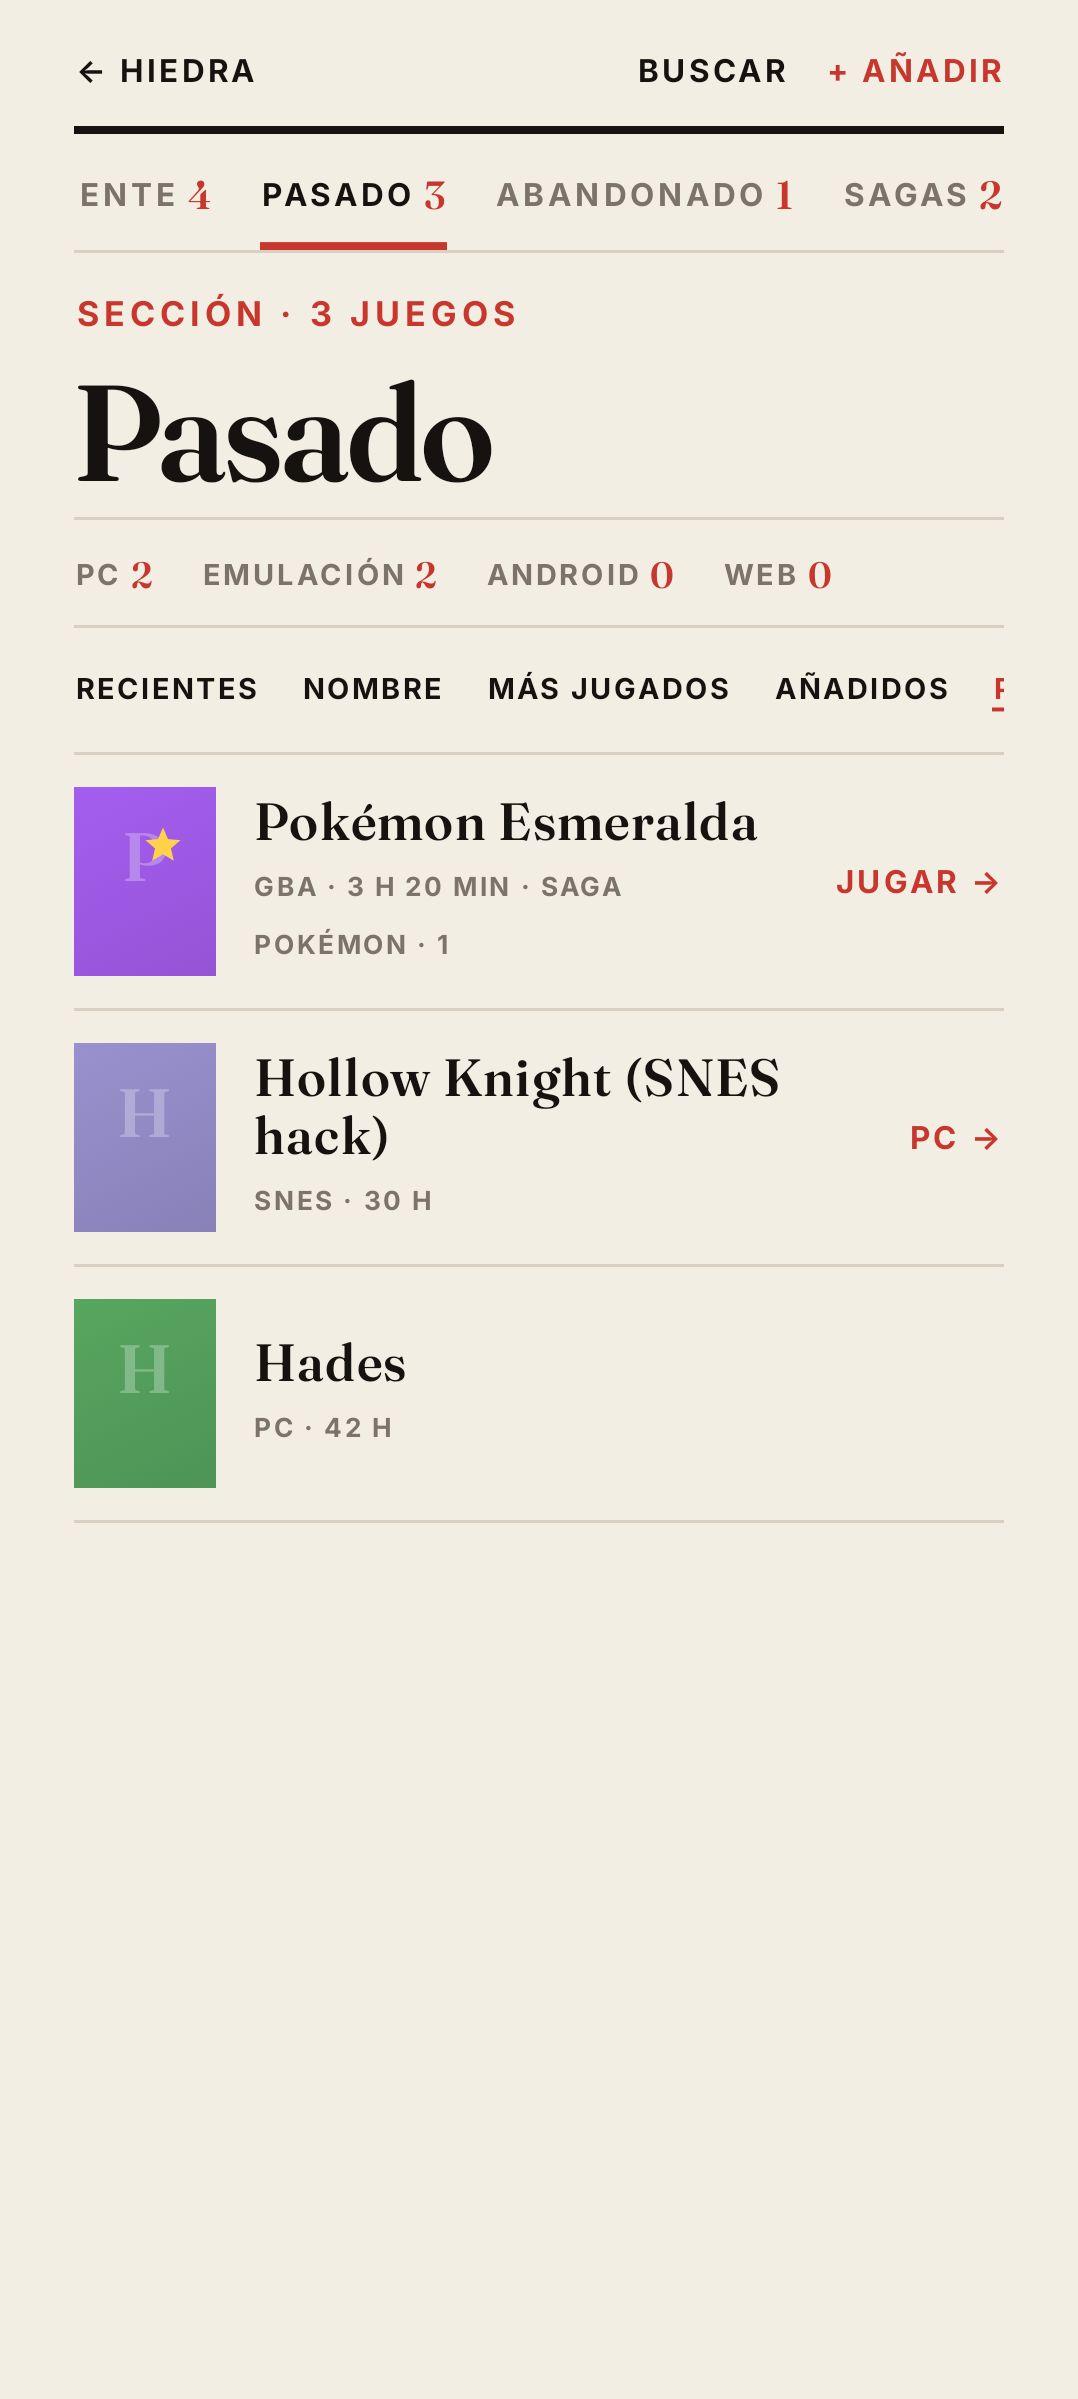
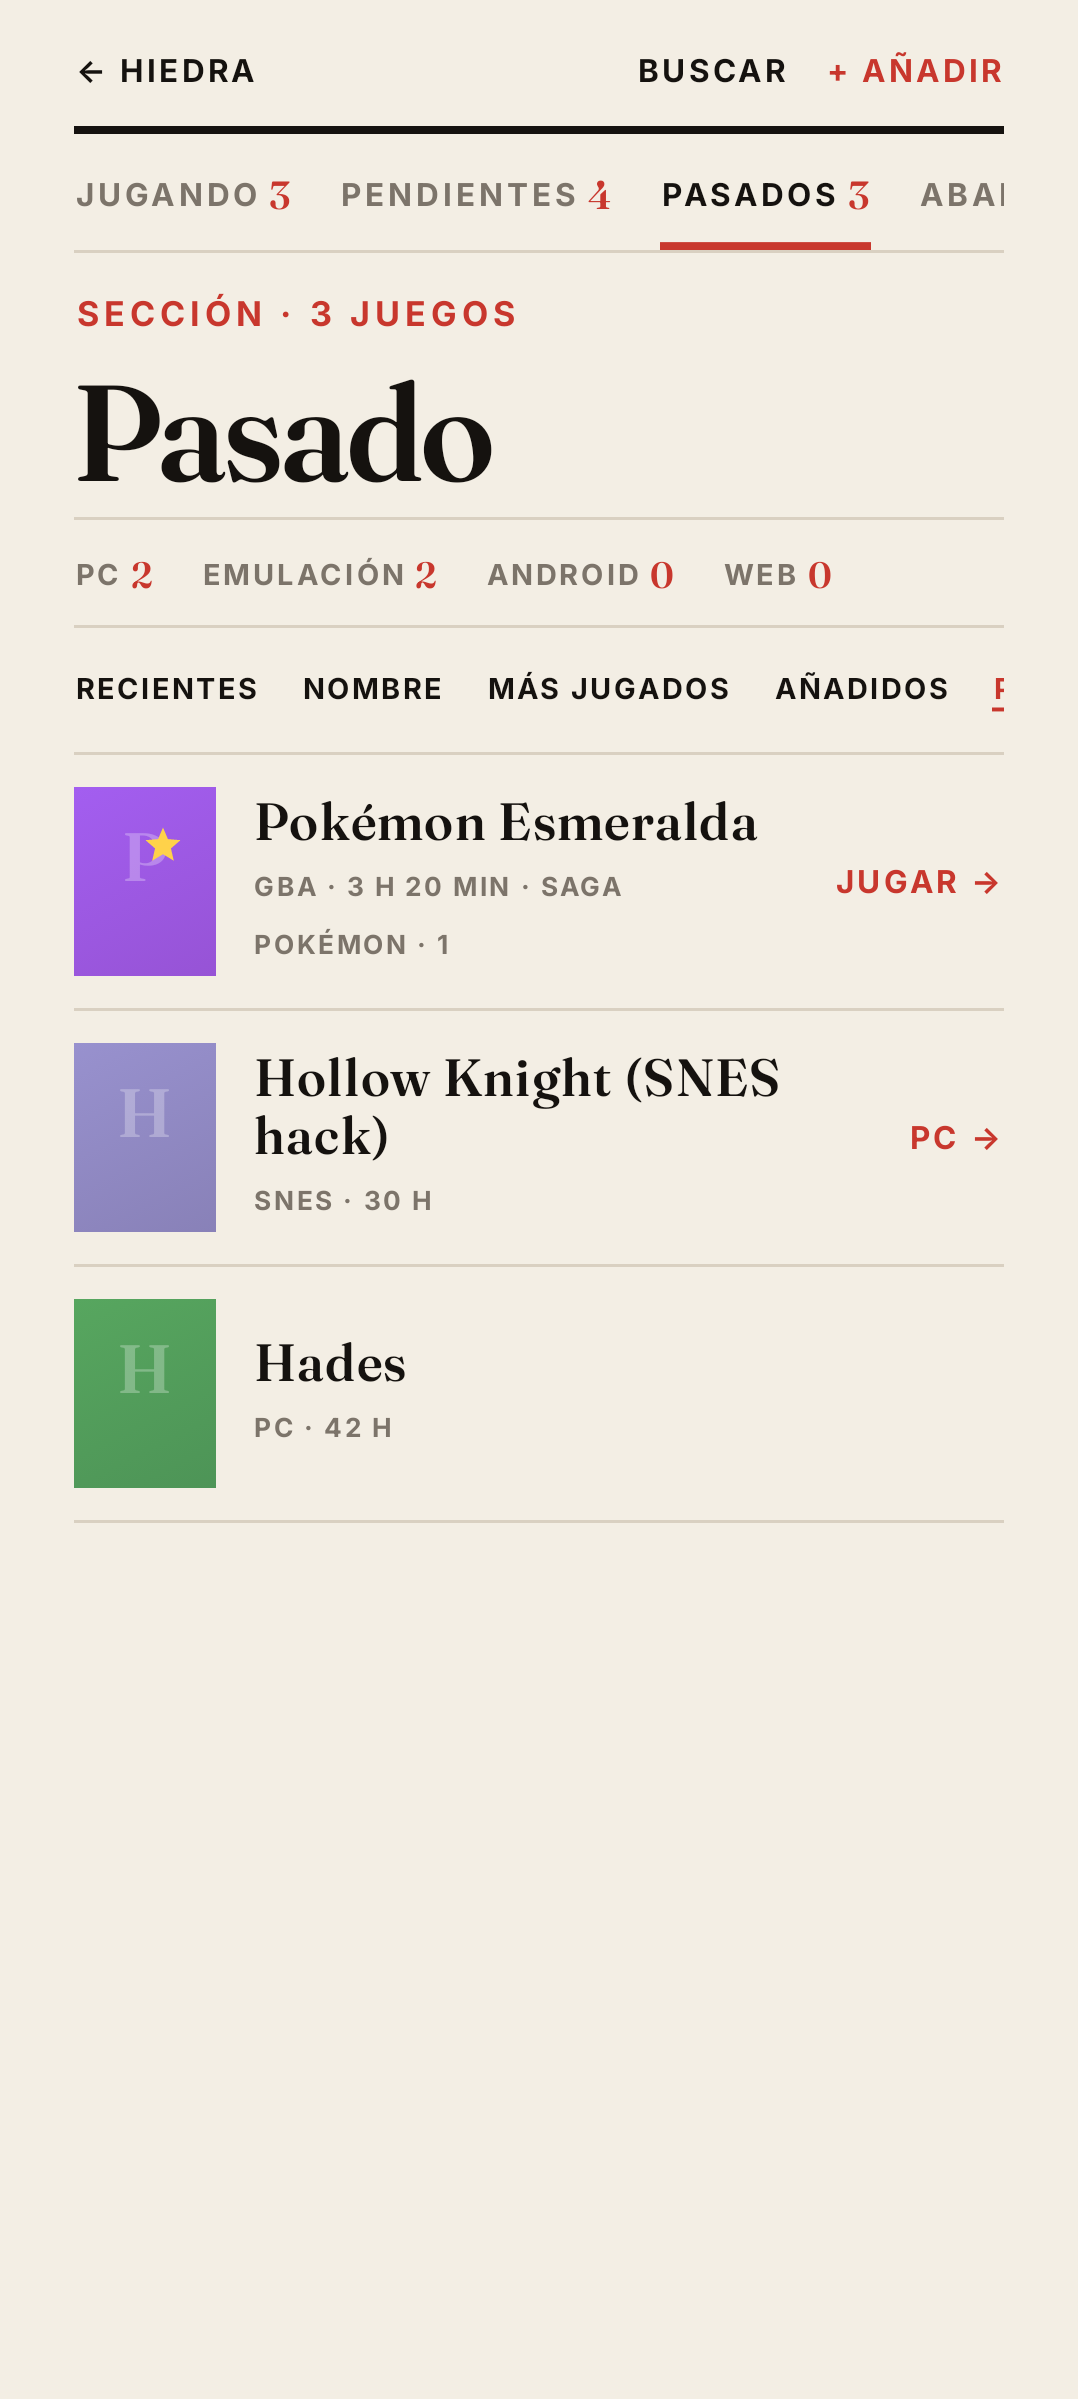
Hiedra 0.3.11: secciones en plural (Jugando · Pendientes · Pasados · Abandonados), pestañas que se centran solas y degradado en los bordes
Claude-Session: https://claude.ai/code/session_01Q4uywen3nuzUg5CTwJaCY5

Changed region(s): [[0.0612, 0.0617, 0.8571, 0.1234], [0.8878, 0.0617, 0.949, 0.0925]]

diff --git a/app/src/main/java/com/gonzalo/hiedra/Secciones.kt b/app/src/main/java/com/gonzalo/hiedra/Secciones.kt
@@ -32,6 +32,10 @@ import androidx.compose.ui.unit.Dp
 import androidx.compose.ui.unit.dp
 import androidx.compose.ui.unit.sp
 import kotlinx.coroutines.launch
+import kotlin.math.roundToInt
+import androidx.compose.ui.draw.drawWithContent
+import androidx.compose.ui.graphics.Brush
+import androidx.compose.ui.graphics.Color
 
 /*
  * Las secciones de Hiedra, como las de Marfil y las de Atrio: páginas por las que te mueves con el dedo o con las pestañas
@@ -282,7 +286,7 @@ fun PantSecciones(inicial: Destino, alVolver: () -> Unit, alAbrir: (Juego) -> Un
         }
         Filete(3.dp)
         if (buscando) CampoBusquedaRevista(busca, "título, sistema o saga", foco) { busca = it }
-        PestanasPaginas(listOf("Jugando", "Pendiente", "Pasado", "Abandonado", "Sagas"), pager.currentPage, cuentas) { i -> ambito.launch { pager.animateScrollToPage(i) } }
+        PestanasPaginas(listOf("Jugando", "Pendientes", "Pasados", "Abandonados", "Sagas"), pager.currentPage, cuentas) { i -> ambito.launch { pager.animateScrollToPage(i) } }
         if (busca.isNotBlank()) Resultados(busca, todos, alAbrir, alJugar)
         // (sin páginas vecinas precompuestas: con ellas, en las páginas que no son la primera los enlaces de la cabecera no recibían el toque)
         else HorizontalPager(pager, Modifier.weight(1f).fillMaxWidth(), key = { paginas[it].name }) { i ->
@@ -300,14 +304,26 @@ fun PantSecciones(inicial: Destino, alVolver: () -> Unit, alAbrir: (Juego) -> Un
 /** Las pestañas de las secciones (como las de Atrio): la elegida en tinta con el subrayado de acento; su número, en acento. Si no caben, se deslizan y la elegida siempre se ve. */
 @Composable
 private fun PestanasPaginas(nombres: List<String>, sel: Int, cuentas: List<Int>, onSel: (Int) -> Unit) {
+    // La fila se desplaza sola solo si la pestaña elegida no se ve entera (y entonces la centra): así no se corta la de al lado
     val scroll = rememberScrollState()
-    val xs = remember { mutableStateMapOf<Int, Int>() }
-    LaunchedEffect(sel, xs[sel]) { xs[sel]?.let { scroll.animateScrollTo((it - 12).coerceAtLeast(0)) } }
+    val sitios = remember { mutableStateMapOf<Int, Pair<Int, Int>>() }   // pestaña → (x, ancho), en coordenadas del contenido
+    var anchoFila by remember { mutableIntStateOf(0) }
+    LaunchedEffect(sel, sitios[sel], anchoFila) {
+        val (x, w) = sitios[sel] ?: return@LaunchedEffect
+        if (anchoFila <= 0) return@LaunchedEffect
+        if (x < scroll.value || x + w > scroll.value + anchoFila) scroll.animateScrollTo((x + w / 2 - anchoFila / 2).coerceIn(0, scroll.maxValue))
+    }
     Column(Modifier.fillMaxWidth()) {
-        Row(Modifier.fillMaxWidth().horizontalScroll(scroll), horizontalArrangement = Arrangement.spacedBy(18.dp), verticalAlignment = Alignment.Bottom) {
+        Row(Modifier.fillMaxWidth().onGloballyPositioned { anchoFila = it.size.width }.horizontalScroll(scroll).drawWithContent {
+                // Un degradado en los bordes cuando hay más pestañas por un lado o por otro (para que no parezcan cortadas)
+                drawContent()
+                val f = 28.dp.toPx()
+                if (scroll.value > 0) drawRect(Brush.horizontalGradient(listOf(Paper, Color.Transparent), 0f, f), Offset.Zero, Size(f, size.height))
+                if (scroll.value < scroll.maxValue) drawRect(Brush.horizontalGradient(listOf(Color.Transparent, Paper), size.width - f, size.width), Offset(size.width - f, 0f), Size(f, size.height))
+            }, horizontalArrangement = Arrangement.spacedBy(18.dp), verticalAlignment = Alignment.Bottom) {
             nombres.forEachIndexed { i, n ->
                 val on = i == sel
-                Row(Modifier.onGloballyPositioned { xs[i] = it.positionInParent().x.toInt() }.clickable { onSel(i) }
+                Row(Modifier.onGloballyPositioned { c -> sitios[i] = (c.positionInParent().x + scroll.value).roundToInt() to c.size.width }.clickable { onSel(i) }
                     .drawBehind { if (on) drawRect(Acento, topLeft = Offset(0f, size.height - 3.dp.toPx()), size = Size(size.width, 3.dp.toPx())) }
                     .padding(top = 12.dp, bottom = 10.dp), verticalAlignment = Alignment.Bottom) {
                     Text(n.uppercase(), color = if (on) Charcoal else Muted, fontFamily = Body, fontSize = 12.sp, fontWeight = FontWeight.Black, letterSpacing = 1.6.sp, maxLines = 1)

diff --git a/app/src/main/java/com/gonzalo/hiedra/Revista.kt b/app/src/main/java/com/gonzalo/hiedra/Revista.kt
@@ -33,6 +33,11 @@ import androidx.compose.ui.unit.TextUnit
 import androidx.compose.ui.unit.dp
 import androidx.compose.ui.unit.sp
 import java.util.concurrent.ConcurrentHashMap
+import androidx.compose.ui.layout.onGloballyPositioned
+import androidx.compose.ui.layout.positionInParent
+import kotlin.math.roundToInt
+import androidx.compose.ui.draw.drawWithContent
+import androidx.compose.ui.graphics.Brush
 
 /*
  * Las piezas de la interfaz «Revista» de Atrio (RevistaUI.kt, Revista.kt, Ediciones.kt, Vitrina.kt), tal cual y con los mismos
@@ -73,11 +78,27 @@ fun VolverRevista(onClick: () -> Unit, texto: String = "Volver") = EnlaceRevista
 /** Las pestañas de una página: versalitas; la elegida en tinta con el subrayado de acento; su número, en acento. */
 @Composable
 fun PestanasRevista(nombres: List<String>, sel: Int, modifier: Modifier = Modifier, cuentas: List<Int?>? = null, onSel: (Int) -> Unit) {
+    // La fila se desplaza sola hasta la pestaña elegida si no se ve entera (al entrar en «Sagas» desde la portada, por ejemplo)
+    val desplazamiento = rememberScrollState()
+    val sitios = remember { mutableStateMapOf<Int, Pair<Int, Int>>() }   // pestaña → (x, ancho), en coordenadas del contenido
+    var anchoFila by remember { mutableIntStateOf(0) }
+    LaunchedEffect(sel, sitios[sel], anchoFila) {
+        val (x, w) = sitios[sel] ?: return@LaunchedEffect
+        if (anchoFila <= 0) return@LaunchedEffect
+        if (x < desplazamiento.value || x + w > desplazamiento.value + anchoFila) desplazamiento.animateScrollTo((x + w / 2 - anchoFila / 2).coerceIn(0, desplazamiento.maxValue))
+    }
     Column(modifier.fillMaxWidth()) {
-        Row(Modifier.fillMaxWidth().horizontalScroll(rememberScrollState()), horizontalArrangement = Arrangement.spacedBy(20.dp), verticalAlignment = Alignment.Bottom) {
+        Row(Modifier.fillMaxWidth().onGloballyPositioned { anchoFila = it.size.width }.horizontalScroll(desplazamiento).drawWithContent {
+                // Un degradado en los bordes cuando hay más pestañas por un lado o por otro (para que no parezcan cortadas)
+                drawContent()
+                val f = 28.dp.toPx()
+                if (desplazamiento.value > 0) drawRect(Brush.horizontalGradient(listOf(Paper, Color.Transparent), 0f, f), Offset.Zero, Size(f, size.height))
+                if (desplazamiento.value < desplazamiento.maxValue) drawRect(Brush.horizontalGradient(listOf(Color.Transparent, Paper), size.width - f, size.width), Offset(size.width - f, 0f), Size(f, size.height))
+            }, horizontalArrangement = Arrangement.spacedBy(20.dp), verticalAlignment = Alignment.Bottom) {
             nombres.forEachIndexed { i, n ->
                 val on = i == sel
-                Row(Modifier.semantics { selected = on; role = Role.Tab }.clickable { onSel(i) }
+                Row(Modifier.onGloballyPositioned { c -> sitios[i] = (c.positionInParent().x + desplazamiento.value).roundToInt() to c.size.width }
+                    .semantics { selected = on; role = Role.Tab }.clickable { onSel(i) }
                     .drawBehind { if (on) drawRect(Acento, topLeft = Offset(0f, size.height - 3.dp.toPx()), size = Size(size.width, 3.dp.toPx())) }
                     .padding(top = 12.dp, bottom = 10.dp), verticalAlignment = Alignment.Bottom) {
                     Text(n.uppercase(), color = if (on) Charcoal else Muted, fontFamily = Body, fontSize = 12.sp, fontWeight = FontWeight.Black, letterSpacing = 1.6.sp, maxLines = 1)

diff --git a/app/src/test/java/com/gonzalo/hiedra/CapturasTest.kt b/app/src/test/java/com/gonzalo/hiedra/CapturasTest.kt
@@ -109,10 +109,10 @@ class CapturasTest {
         montar(oscuro = false)
         foto("2_portada")
         ir("JUGANDO"); foto("3_juegos")
-        rule.onAllNodesWithText("PENDIENTE")[0].performClick(); rule.waitForIdle(); foto("3b_pendiente")
-        rule.onAllNodesWithText("PASADO")[0].performClick(); rule.waitForIdle(); foto("3c_pasado")
+        rule.onAllNodesWithText("PENDIENTES")[0].performClick(); rule.waitForIdle(); foto("3b_pendiente")
+        rule.onAllNodesWithText("PASADOS")[0].performClick(); rule.waitForIdle(); foto("3c_pasado")
         tocarVisible("EMULACIÓN"); foto("3d_pasado_emulacion")
-        rule.onAllNodesWithText("SAGAS")[0].performClick(); rule.waitForIdle(); foto("3e_sagas")
+        rule.onAllNodesWithText("SAGAS")[0].performScrollTo().performClick(); rule.waitForIdle(); foto("3e_sagas")
         rule.onAllNodesWithText("The Legend of Zelda", useUnmergedTree = true).onLast().performClick(); rule.waitForIdle(); foto("3f_saga_abierta")
         rule.onNodeWithText("VER LA SAGA →", useUnmergedTree = true).performClick(); foto("3g_pagina_saga")
         pulsar("← VOLVER")
@@ -122,7 +122,7 @@ class CapturasTest {
         rule.onNodeWithText("AVANZADO").performClick(); rule.waitForIdle(); foto("5d_ajustes_avanzado")
         rule.onNodeWithText("JUEGOS").performClick(); rule.waitForIdle()
         rule.onNodeWithText("Sistemas y emuladores", substring = true).performScrollTo().performClick(); foto("4_sistemas")
-        pulsar("← HIEDRA"); pulsar("← HIEDRA"); ir("PASADO")
+        pulsar("← HIEDRA"); pulsar("← HIEDRA"); ir("PASADOS")
         rule.onAllNodesWithText("Pokémon Esmeralda", substring = true, useUnmergedTree = true)[0].performClick(); foto("6_ficha")
         pulsar("← VOLVER")
         rule.onAllNodesWithText("Hades", substring = true, useUnmergedTree = true)[0].performClick(); foto("6b_ficha_sin_lanzador")
@@ -198,7 +198,7 @@ class CapturasTest {
         org.junit.Assume.assumeTrue(System.getProperty("roborazzi.test.record") == "true")
         siembra()
         montar(oscuro = false)
-        ir("PASADO")
+        ir("PASADOS")
         rule.onAllNodesWithText("Pokémon Esmeralda", substring = true, useUnmergedTree = true)[0].performClick()
         rule.onNodeWithText("EN AZABACHE").performScrollTo(); foto("12_ficha_casillas")
         rule.onNodeWithText("Datos de").performScrollTo(); foto("12b_ficha_datos")
@@ -223,7 +223,7 @@ class CapturasTest {
         org.junit.Assume.assumeTrue(System.getProperty("roborazzi.test.record") == "true")
         siembra()
         montar(oscuro = false)
-        ir("PASADO")
+        ir("PASADOS")
         rule.onAllNodesWithText("Pokémon Esmeralda", substring = true, useUnmergedTree = true)[0].performClick()
         rule.onNodeWithTag("portada").performScrollTo().performClick(); foto("10_portada_opciones")
         rule.onNodeWithText("Buscar en internet →").performClick(); foto("11_buscador")
@@ -236,7 +236,7 @@ class CapturasTest {
         Skin.invertido = true
         montar(oscuro = false)
         foto("15_invertido_portada")
-        ir("PASADO"); foto("16_invertido_juegos")
+        ir("PASADOS"); foto("16_invertido_juegos")
         rule.onAllNodesWithText("Pokémon Esmeralda", substring = true, useUnmergedTree = true)[0].performClick()
         rule.onNodeWithText("EN AZABACHE").performScrollTo(); foto("17_invertido_ficha")
     }

diff --git a/app/src/test/java/com/gonzalo/hiedra/InicioTest.kt b/app/src/test/java/com/gonzalo/hiedra/InicioTest.kt
@@ -69,8 +69,8 @@ class InicioTest {
         Biblioteca.juegos.add(rom("c", "Kirby de prueba"))
         var ir: Destino? = null; var jugado = ""; var abierto = ""
         rule.setContent { HiedraTheme { Surface(Modifier.fillMaxSize(), color = Paper) { PantInicio({ abierto = it.titulo }, { jugado = it.titulo }, {}, { ir = it }, {}) } } }
-        listOf("JUGANDO", "PENDIENTE", "PASADO", "ABANDONADO", "SAGAS", "TU PC").forEach { rule.onAllNodesWithText(it)[0].assertExists() }
-        rule.onAllNodesWithText("PASADO")[0].performClick(); assertEquals(Destino.Pasado, ir)
+        listOf("JUGANDO", "PENDIENTES", "PASADOS", "ABANDONADOS", "SAGAS", "TU PC").forEach { rule.onAllNodesWithText(it)[0].assertExists() }
+        rule.onAllNodesWithText("PASADOS")[0].performClick(); assertEquals(Destino.Pasado, ir)
         rule.onNodeWithTag("destacado").assertExists(); rule.onAllNodesWithText("Metroid de prueba", useUnmergedTree = true)[0].assertExists()
         rule.onNodeWithText("SIGUE JUGANDO").assertExists(); rule.onNodeWithTag("loseta-a").assertExists(); rule.onNodeWithTag("loseta-c").assertExists()
         rule.onNodeWithTag("loseta-a").performClick(); assertEquals("Zelda de prueba", jugado)

diff --git a/app/src/main/java/com/gonzalo/hiedra/PantInicio.kt b/app/src/main/java/com/gonzalo/hiedra/PantInicio.kt
@@ -187,8 +187,8 @@ fun PantInicio(alAbrir: (Juego) -> Unit, alJugar: (Juego) -> Unit, alAnadir: (Ti
     val destacado = enDirecto ?: Inicio.destacado(juegos)
 
     val secciones = listOf<Pair<String, () -> Unit>>(
-        "Jugando" to { alIr(Destino.Jugando) }, "Pendiente" to { alIr(Destino.Pendiente) }, "Pasado" to { alIr(Destino.Pasado) },
-        "Abandonado" to { alIr(Destino.Abandonado) }, "Sagas" to { alIr(Destino.Sagas) }, "Tu PC" to { alIr(Destino.PC) }
+        "Jugando" to { alIr(Destino.Jugando) }, "Pendientes" to { alIr(Destino.Pendiente) }, "Pasados" to { alIr(Destino.Pasado) },
+        "Abandonados" to { alIr(Destino.Abandonado) }, "Sagas" to { alIr(Destino.Sagas) }, "Tu PC" to { alIr(Destino.PC) }
     )
 
     // La cabecera y el menú, exactamente como en la portada de Atrio (RevistaHome): mismos márgenes, mismo tamaño de cabecera, de filetes y de letra

diff --git a/app/src/main/java/com/gonzalo/hiedra/Inicio.kt b/app/src/main/java/com/gonzalo/hiedra/Inicio.kt
@@ -15,7 +15,7 @@ import org.json.JSONObject
  */
 
 /** Los estantes que puede tener la portada. */
-enum class Estante(val nombre: String) { JUGANDO("Sigue jugando"), FIJADOS("Mis elegidos"), PENDIENTE("Pendiente"), SAGAS("Sagas"), PC("Tu PC"), PASADO("Pasado") }
+enum class Estante(val nombre: String) { JUGANDO("Sigue jugando"), FIJADOS("Mis elegidos"), PENDIENTE("Pendientes"), SAGAS("Sagas"), PC("Tu PC"), PASADO("Pasados") }
 
 /** Un estante en la portada: cuál, si va con portadas grandes y si está a la vista. */
 data class FilaInicio(val estante: Estante, val grande: Boolean = false, val activa: Boolean = true)

diff --git a/app/src/main/java/com/gonzalo/hiedra/PantEstilo.kt b/app/src/main/java/com/gonzalo/hiedra/PantEstilo.kt
@@ -37,7 +37,7 @@ import androidx.compose.material3.TextButton
 import kotlinx.coroutines.Dispatchers
 import kotlinx.coroutines.withContext
 
-const val VERSION = "0.3.10"
+const val VERSION = "0.3.11"
 
 private fun aliasInicio(c: Context) = ComponentName(c, "com.gonzalo.hiedra.InicioAlias")
 private fun esInicio(c: Context) = c.packageManager.getComponentEnabledSetting(aliasInicio(c)) == PackageManager.COMPONENT_ENABLED_STATE_ENABLED
